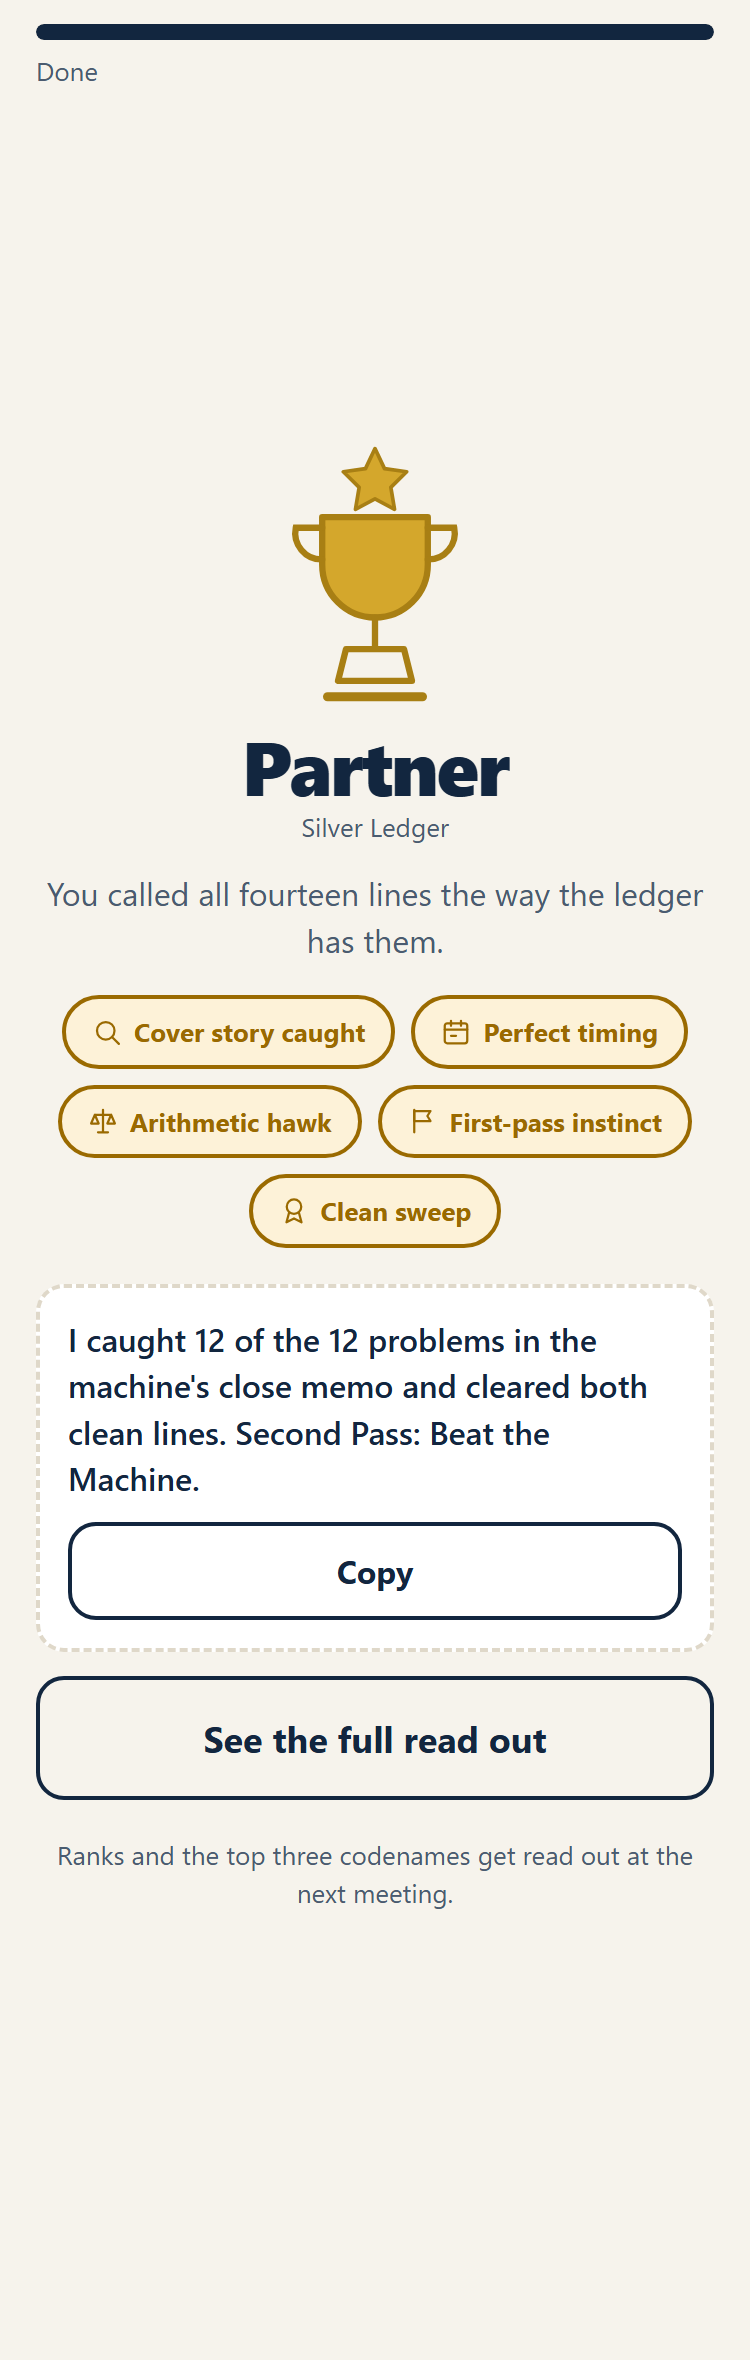
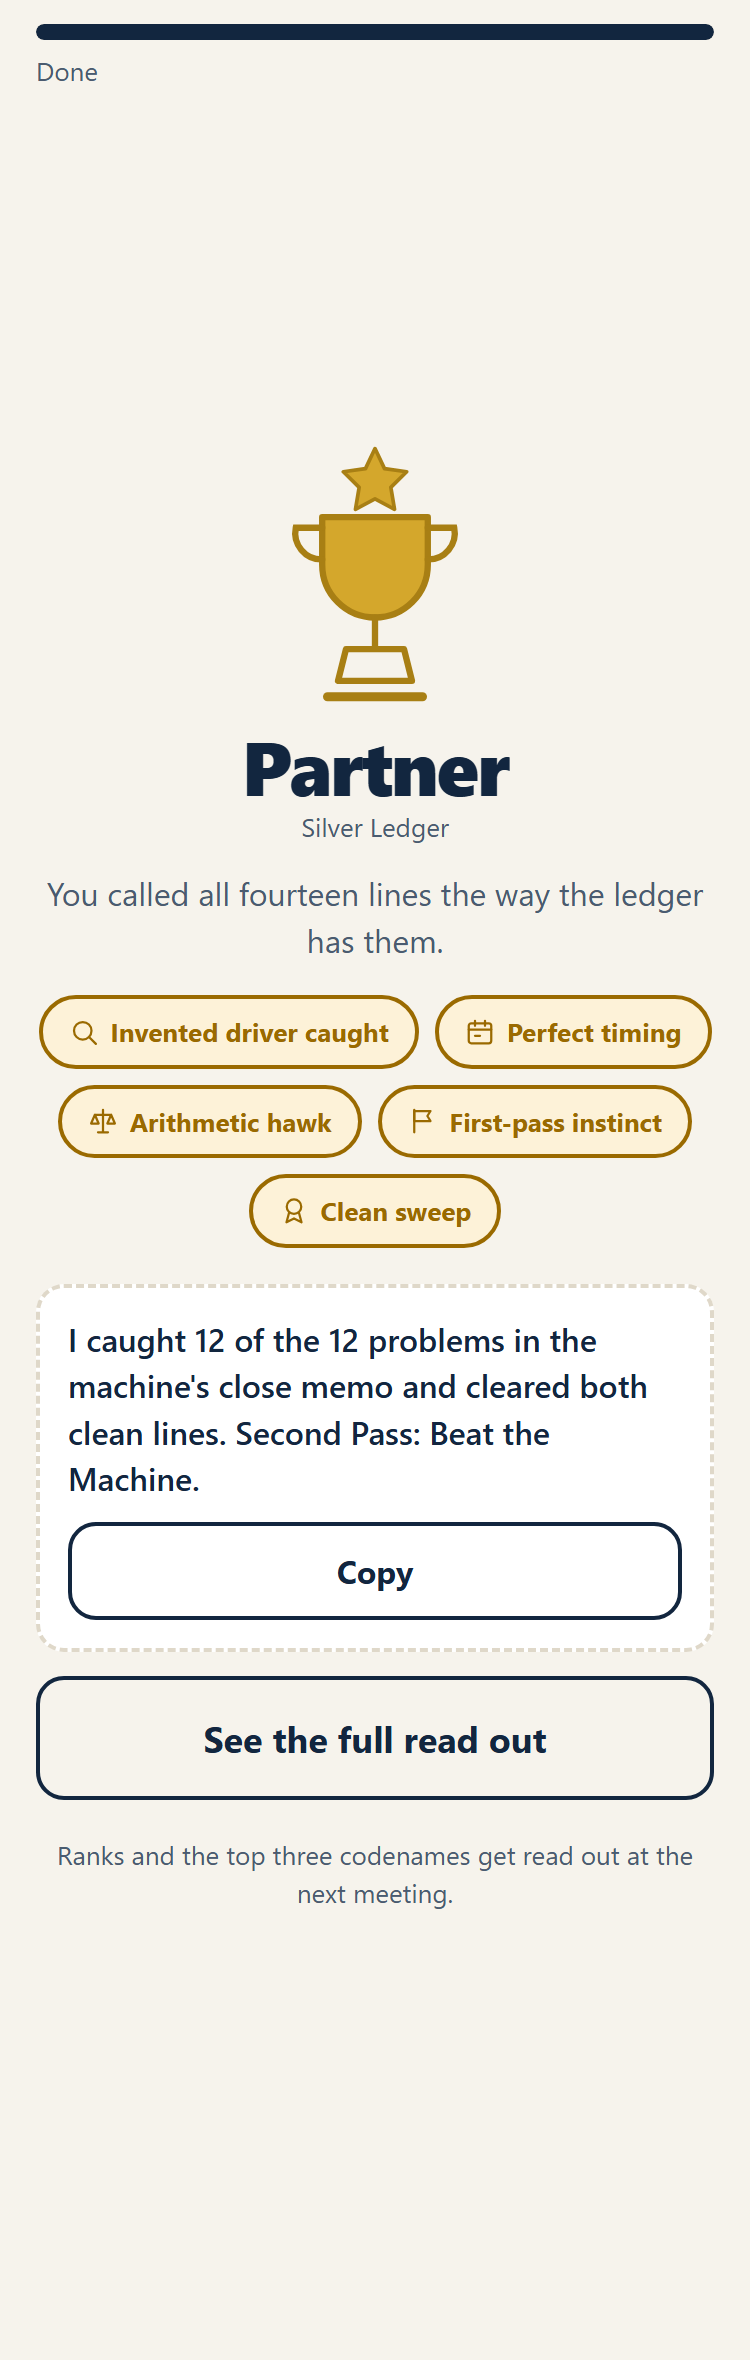
The opening screen rewritten the way you would say it out loud, and two phrases retired
The intro drops the phrase about accounts moving and the phrase about a cover story, along with
the colon and reveal and the paired short sentences that made it read as generated. Three
candidates are kept in INTRO-CANDIDATES.md so the wording can be swapped without rewriting the
screen; B is the one live.

The retired phrase was also the label on the reveal chip and on one of the five badges, so both
now read "Invented driver caught", which is the error type the key already uses.

Changed region(s): [[0.0613, 0.4021, 0.828, 0.464], [0.8587, 0.4021, 0.9507, 0.464]]

diff --git a/index.html b/index.html
@@ -544,8 +544,8 @@ function brief(){
   screen.innerHTML =
     icon("glass")+
     '<h2>What you are reviewing</h2>'+
-    '<p>Halyard\'s controller gave the June ledger to an AI assistant and asked it to explain why each account moved. The arithmetic holds. The reasons are another matter: they are not in the ledger, so it wrote whatever sounded plausible. Some of that is a mistake. Some of it is a cover story.</p>'+
-    '<p>You are the second pass. Fourteen lines, one at a time: flag it or let it stand. The sentence nobody checks is where a real one hides.</p>'+
+    '<p>Halyard\'s controller handed the June ledger to an AI assistant and had it write the close commentary. The numbers it quotes are all correct, so there\'s nothing to catch there.</p>'+
+    '<p>The reasons it gives are just guesses, since nothing in a ledger says why. A few are honest errors, and a few are wrong in a way that would satisfy a reviewer and stop them checking. You\'ll read fourteen lines and flag the ones that don\'t hold up.</p>'+
     '<button class="btn" id="next">Start</button>';
   document.getElementById("next").addEventListener("click", function(){ go(2); });
 }
@@ -715,7 +715,7 @@ function reveal(i, right){
                    : (c.key==="flag" ? "That one got past you" : "You flagged a clean line");
   progress();
   var celebration = "";
-  if(right && c.key==="flag" && c.type==="invented driver") celebration = '<span class="bonus">Cover story caught</span>';
+  if(right && c.key==="flag" && c.type==="invented driver") celebration = '<span class="bonus">Invented driver caught</span>';
   var streakLine = "";
   if(right && S.streak>=3) streakLine = '<p class="streak">'+S.streak+' in a row.</p>';
   screen.innerHTML =
@@ -983,7 +983,7 @@ function badges(){
   var picked = S.round1.map(function(i){ return ROWS[i][0]; });
   var instinct = picked.some(function(code){ return flaggedAccounts().indexOf(code)>-1; });
   return [
-    {t:"Cover story caught", on: got(7) && got(10), i:"glass"},
+    {t:"Invented driver caught", on: got(7) && got(10), i:"glass"},
     {t:"Perfect timing",     on: got(2) && got(4) && got(9), i:"calendar"},
     {t:"Arithmetic hawk",    on: got(1) && got(8) && got(13), i:"scales"},
     {t:"First-pass instinct",on: instinct, i:"flag"},

diff --git a/INTRO-CANDIDATES.md b/INTRO-CANDIDATES.md
@@ -1,0 +1,32 @@
+# The "what you are reviewing" screen, three candidates
+
+Written 12 September 2026. Constraints: under 80 words, two short paragraphs, contractions fine,
+no "why each account moved", nothing standing in for "cover story", no colon and reveal, no paired
+short sentences, no closing aphorism. Candidate B is the one live on the site.
+
+## A
+
+Halyard's controller ran June's close commentary through an AI assistant, working off the ledger.
+Every figure in it checks out, so the arithmetic isn't where this goes wrong.
+
+A ledger doesn't record reasons, so the assistant supplied its own. Some of them are careless, and
+some are convincing enough that a reviewer would sign off and move on. Fourteen lines are coming,
+and you flag whichever ones don't hold.
+
+## B (live)
+
+Halyard's controller handed the June ledger to an AI assistant and had it write the close
+commentary. The numbers it quotes are all correct, so there's nothing to catch there.
+
+The reasons it gives are just guesses, since nothing in a ledger says why. A few are honest errors,
+and a few are wrong in a way that would satisfy a reviewer and stop them checking. You'll read
+fourteen lines and flag the ones that don't hold up.
+
+## C
+
+The June commentary at Halyard wasn't written by a person. The controller gave an AI assistant the
+ledger and let it explain the month, and every figure it quotes is right.
+
+The explanations are the assistant's own guesses, because the ledger doesn't carry any. A couple
+are ordinary mistakes, and a couple would convince a reviewer to accept the line and stop digging.
+You read fourteen lines and flag the ones that don't hold.
